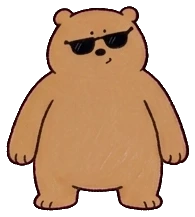
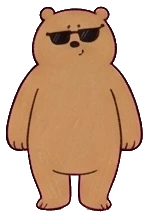
은신처 시안: 새 걷기 그림과 물건별 동작, 3주 작전 반영
옆걸음 네 장과 앞뒤 걷기, 물건마다 다른 동작(돋보기, 쌍안경, 도장, 헤드폰, 수화기, 돌 들기),
인사와 갸웃, 하품, 두리번거리기를 넣었다. 도장 3칸, 교환권은 도장 2개부터.
hideout 폴더만 바꿨고 학생 화면은 건드리지 않았다.

Changed region(s): [[0.0268, 0.0276, 0.9933, 0.9954]]

diff --git a/hideout/index.html b/hideout/index.html
@@ -275,7 +275,7 @@ button{-webkit-tap-highlight-color:transparent;cursor:pointer}
         <div class="bear idle" id="bear">
           <div class="scale" id="bearScale">
             <div class="ground" id="bearShadow"></div>
-            <div class="flip" id="bearFlip"><img id="bearImg" src="img/sit.webp" alt="" draggable="false"></div>
+            <div class="flip" id="bearFlip"><img id="bearImg" src="img/stand.webp" alt="" draggable="false"></div>
             <div class="bubble" id="bubble" role="status"></div>
           </div>
         </div>
@@ -321,7 +321,7 @@ button{-webkit-tap-highlight-color:transparent;cursor:pointer}
       <li>누를 수 있는 물건에는 흰 윤곽선이 둘러져 있고, 이름은 물건 옆에 손글씨로 적혀 있습니다. 누르면 그 물건만 살짝 커지고 밝아집니다.</li>
       <li>암호판은 지령, 창문은 마음 날씨, 책상은 도장 카드, 무전기 라디오는 추천곡, 돌 받침은 걱정돌, 빨간 전화는 도움 전화입니다.</li>
       <li>지도 게시판의 종이 세 장을 따로 누를 수 있습니다. 왼쪽 쪽지는 룰루랄라 포스터, 큰 지도는 인형 영상, 아래 사진은 색연필 영상입니다. 영상은 누를 때만 불러옵니다.</li>
-      <li>곰은 새로 받은 16자세와 걷는 그림을 씁니다.</li>
+      <li>곰은 새로 받은 그림을 씁니다. 옆으로 걷기 네 장, 앞으로·뒤로 걷기, 물건마다 다른 동작(쌍안경, 돋보기, 도장, 헤드폰, 수화기, 돌 들기), 인사·갸웃·하품·두리번거리기가 있습니다.</li>
     </ul>
     <h3>정해야 할 것</h3>
     <ul>
@@ -351,9 +351,10 @@ button{-webkit-tap-highlight-color:transparent;cursor:pointer}
   var PLAY='<svg viewBox="0 0 24 24" width="16" height="16" aria-hidden="true"><path d="M7 4.5v15l12-7.5z" fill="currentColor"/></svg>';
   var HEART='<svg viewBox="0 0 24 24" width="20" height="20" aria-hidden="true"><path d="M12 20.5s-7.5-4.6-7.5-10.2A4.3 4.3 0 0 1 12 7.6a4.3 4.3 0 0 1 7.5 2.7c0 5.6-7.5 10.2-7.5 10.2z" fill="none" stroke="currentColor" stroke-width="2" stroke-linejoin="round"/></svg>';
   /* 곰 그림: [가로, 세로] (그림 픽셀). 화면에는 K 배로 줄여 쓴다 */
-  var SPR={"stand":[195,217],"apple":[166,197],"back":[250,123],"belly":[238,115],"bird":[169,221],"front1":[183,225],"front2":[160,202],"honey":[172,193],"hooray":[196,214],"med":[163,197],"nap":[237,154],"read":[231,164],"sit":[184,204],"walk1":[158,230],"walk2":[180,199],"walk3":[160,197]};
-  var POSE_AT={board:'read',window:'stand',radio:'belly',desk:'apple',stones:'med',phone:'stand',poster:'stand',clip3d:'stand',clip2d:'stand'};
-  var REST=['apple','honey','belly','nap','back','med','bird'];
+  /* 곰 그림: [가로, 세로, 배율]. 새로 받은 그림은 기존 곰과 키가 같아지게 배율을 따로 둔다 */
+  var SPR={"apple":[166,197],"back":[250,123],"belly":[238,115],"bird":[169,221],"honey":[172,193],"med":[163,197],"nap":[237,154],"read":[231,164],"sit":[184,204],"b1":[146,205,1.05],"b2":[147,205,1.05],"backstand":[151,214,1.05],"binoc":[156,217,1.05],"crossed":[119,207,1.05],"f1":[126,205,1.05],"f2":[139,207,1.05],"headphone":[153,222,1.05],"hooray":[268,366,0.62],"lookl":[207,360,0.62],"lookr":[207,360,0.62],"mag":[165,217,1.05],"phone":[117,206,1.05],"stamp":[165,190,1.05],"stand":[149,218,1.05],"stone":[135,208,1.05],"tilt":[299,374,0.62],"w1":[151,217,1.05],"w2":[132,217,1.05],"w3":[136,216,1.05],"w4":[152,217,1.05],"wave":[289,366,0.62],"yawn":[233,368,0.62]};
+  var POSE_AT={board:'mag',window:'binoc',radio:'headphone',desk:'stamp',stones:'stone',phone:'phone',poster:'crossed',clip3d:'crossed',clip2d:'crossed'};
+  var REST=['apple','honey','belly','nap','back','med','bird','sit','read'];
   var WX={sun:'맑음',cloud:'구름',rain:'비',storm:'번개'};
   var reduce=window.matchMedia&&matchMedia('(prefers-reduced-motion: reduce)').matches;
   function replay(el,cls){el.classList.remove(cls);void el.offsetWidth;el.classList.add(cls)}
@@ -396,7 +397,7 @@ button{-webkit-tap-highlight-color:transparent;cursor:pointer}
     scale=ph/WH;
     P={minX:70,maxX:1450,minY:500,maxY:800,
       window:{x:330,y:752},desk:{x:410,y:765},board:{x:575,y:525},poster:{x:870,y:525},clip3d:{x:960,y:525},clip2d:{x:940,y:532},
-      radio:{x:1262,y:580},stones:{x:1262,y:612},phone:{x:1380,y:775},start:{x:550,y:612}};
+      radio:{x:1182,y:642},stones:{x:1278,y:652},phone:{x:1380,y:775},start:{x:550,y:612}};
     P.start.x=Math.min(550,346+(PW/2-16)/scale);      /* 처음에는 암호판과 그 글자가 다 보이는 자리 */
     if(!pos)pos={x:P.start.x,y:P.start.y};
     pos=fit(pos);cam=camFor();measureLabels();applyView();
@@ -427,11 +428,11 @@ button{-webkit-tap-highlight-color:transparent;cursor:pointer}
 
   /* ---------- 늘곰 ---------- */
   var bear=$('bear'), bearImg=$('bearImg'), flipEl=$('bearFlip'), shadow=$('bearShadow'), bubble=$('bubble');
-  var target=null, goal=null, dir=1, pose='sit', poseTimer=null, cur='', step=0, stepT=0, lastInput=0, resting=false, SPEED=330;
+  var target=null, goal=null, dir=1, pose='stand', poseTimer=null, cur='', step=0, stepT=0, lastInput=0, lastLook=0, resting=false, SPEED=330;
   Object.keys(SPR).forEach(function(n){var i=new Image();i.src='img/'+n+'.webp'});      /* 그림 미리 불러오기 */
   function show(name,flip){
     if(name!==cur){
-      cur=name;var w=SPR[name][0]*K, h=SPR[name][1]*K;
+      cur=name;var q=K*(SPR[name][2]||1), w=SPR[name][0]*q, h=SPR[name][1]*q;
       bearImg.setAttribute('src','img/'+name+'.webp');
       bearImg.style.width=w+'px';bearImg.style.height=h+'px';bearImg.style.left=(-w/2)+'px';bearImg.style.top=(4-h)+'px';
       shadow.style.width=(w*.8)+'px';shadow.style.left=(-w*.4)+'px';bubble.style.bottom=(h+16)+'px';
@@ -443,13 +444,13 @@ button{-webkit-tap-highlight-color:transparent;cursor:pointer}
     var s=0.8+0.36*((pos.y-P.minY)/Math.max(1,P.maxY-P.minY));
     $('bearScale').style.transform='scale('+s.toFixed(3)+')';
     if(!target)show(pose,1);
-    var cls='bear '+(target?'walk':(pose==='sit'||pose==='stand'?'idle':'act'));
+    var cls='bear '+(target?'walk':(pose==='stand'?'idle':'act'));
     if(bear.className!==cls)bear.className=cls;
     var vx=pos.x*scale-cam, shift=(clamp(vx,128,PW-128)-vx)/scale;bubble.style.marginLeft=(shift/s)+'px';
   }
   function setPose(name,ms,after){
     clearTimeout(poseTimer);pose=name;resting=false;
-    if(ms)poseTimer=setTimeout(function(){pose=after||'sit';drawBear()},ms);
+    if(ms)poseTimer=setTimeout(function(){pose=after||'stand';drawBear()},ms);
     if(pos)drawBear();
   }
   function walkTo(x,y,then,keepBubble){
@@ -461,7 +462,7 @@ button{-webkit-tap-highlight-color:transparent;cursor:pointer}
     if(reduce){pos={x:target.x,y:target.y};target=null;cam=camFor();applyView();arrive();return}
     drawBear();
   }
-  function arrive(){var g=goal;goal=null;if(g)g();else setPose('stand',1500,'sit');drawBear()}
+  function arrive(){var g=goal;goal=null;if(g)g();else setPose('stand');drawBear()}
   var last=0;
   function tick(t){
     var dt=Math.min(.05,(t-last)/1000);last=t;
@@ -471,13 +472,19 @@ button{-webkit-tap-highlight-color:transparent;cursor:pointer}
       else{
         pos.x+=dx/d*st;pos.y+=dy/d*st;stepT+=dt;if(stepT>.17){stepT=0;step=(step+1)%4}
         drawBear();
-        if(Math.abs(dx)>=Math.abs(dy)*.8)show(['walk1','walk2','walk3','walk2'][step],dir);          /* 옆으로 걷기 */
-        else show(step%2?'front1':'front2',step>1?-1:1);                            /* 앞뒤로 걷기 */
+        if(Math.abs(dx)>=Math.abs(dy)*.8)show(['w1','w2','w3','w4'][step],-dir);          /* 옆으로 걷기: 그림은 왼쪽을 보고 있어서 오른쪽으로 갈 때 뒤집는다 */
+        else show(dy<0?(step%2?'b1':'b2'):(step%2?'f1':'f2'),1);                    /* 방 안쪽으로 갈 때는 뒷모습, 앞으로 올 때는 앞모습 */
       }
-    }else if(!current&&!resting&&pose==='sit'&&t-lastInput>14000){
-      /* 한동안 가만히 두면 알아서 쉰다 */
-      resting=true;pose=REST[Math.floor(Math.random()*REST.length)];drawBear();
-      poseTimer=setTimeout(function(){if(resting){resting=false;pose='sit';lastInput=performance.now();drawBear()}},6500);
+    }else if(!current&&!resting&&pose==='stand'&&t-lastInput>14000){
+      /* 한동안 가만히 두면 하품을 하고 알아서 쉰다 */
+      resting=true;pose='yawn';drawBear();
+      poseTimer=setTimeout(function(){
+        if(!resting)return;pose=REST[Math.floor(Math.random()*REST.length)];drawBear();
+        poseTimer=setTimeout(function(){if(resting){resting=false;pose='stand';lastInput=performance.now();drawBear()}},6500);
+      },1500);
+    }else if(!current&&!resting&&pose==='stand'&&t-lastInput>2600&&t-lastLook>5200){
+      /* 가만히 서 있을 때는 가끔 두리번거린다 */
+      lastLook=t;if(!reduce)setPose(Math.random()<.5?'lookl':'lookr',900,'stand');
     }
     /* 방이 늘곰을 따라 옆으로 움직인다 */
     var want=camFor();if(Math.abs(want-cam)>.4){cam+=(want-cam)*Math.min(1,dt*7);applyView()}
@@ -506,7 +513,7 @@ button{-webkit-tap-highlight-color:transparent;cursor:pointer}
   Array.prototype.forEach.call(document.querySelectorAll('.obj'),function(o){
     o.addEventListener('click',function(){
       var k=o.dataset.k, p=P[k];ls.moved=true;save();
-      if(k==='stones'&&ls.week<4){walkTo(p.x,p.y,function(){setPose('sit');say('걱정돌은 작전이 끝나면 열려요.')});return}
+      if(k==='stones'&&ls.week<4){walkTo(p.x,p.y,function(){setPose('tilt',2200,'stand');say('걱정돌은 작전이 끝나면 열려요.')});return}
       walkTo(p.x,p.y,function(){setPose(POSE_AT[k]);openSheet(k,o)});
     });
   });
@@ -567,7 +574,7 @@ button{-webkit-tap-highlight-color:transparent;cursor:pointer}
     current=null;clearInterval(clockTimer);sheet.classList.remove('on');scrim.classList.remove('on');behind(false);panFor(0);
     if(opener){try{opener.focus({preventScroll:true})}catch(e){}}
     renderRoom();
-    if(!quiet)setPose('stand',1200,'sit');
+    if(!quiet)setPose('stand');
   }
   function behind(on){[world,document.querySelector('.hud'),document.querySelector('.acts')].forEach(function(el){if(on)el.setAttribute('inert','');else el.removeAttribute('inert')})}
   $('sheetClose').addEventListener('click',function(){closeSheet()});
@@ -602,7 +609,7 @@ button{-webkit-tap-highlight-color:transparent;cursor:pointer}
       h+='</div>';
       return {title:title,tone:'board',html:h,bind:function(){
         var f=$('codeForm');if(!f)return;var input=$('code'), msg=$('codeMsg');
-        function wrong(text){msg.textContent=text;input.classList.add('bad');replay(input,'shake');input.focus()}
+        function wrong(text){msg.textContent=text;input.classList.add('bad');replay(input,'shake');input.focus();setPose('tilt',1600,POSE_AT.board)}
         f.addEventListener('submit',function(e){
           e.preventDefault();var v=input.value.trim();
           if(!v){wrong('암호를 먼저 적어 주세요.');return}
@@ -683,7 +690,7 @@ button{-webkit-tap-highlight-color:transparent;cursor:pointer}
       return {title:'우리 걱정돌 탑',html:h,bind:function(){
         $('stoneBtn').addEventListener('click',function(){
           ls.stone=TODAY;save();S.stonesToday++;S.stonesTotal++;closeSheet(true);replay($('oStones'),'hop');
-          setPose('hooray',1400,'sit');say('돌 하나 올렸어요.',2400);
+          setPose('hooray',1400,'stand');say('돌 하나 올렸어요.',2400);
         });
       }};
     },
@@ -711,7 +718,7 @@ button{-webkit-tap-highlight-color:transparent;cursor:pointer}
         $('seg').addEventListener('click',function(e){var b=e.target.closest('button');if(!b)return;ls.week=+b.dataset.w;save();refresh();renderRoom()});
         $('resetBtn').addEventListener('click',function(){
           try{localStorage.removeItem(KEY)}catch(e){}
-          ls={};defaults();seed();closeSheet(true);pos={x:P.start.x,y:P.start.y};target=null;cam=camFor();applyView();setPose('sit');renderRoom();drawPaws();say('처음으로 돌아왔어요.',2200);
+          ls={};defaults();seed();closeSheet(true);pos={x:P.start.x,y:P.start.y};target=null;cam=camFor();applyView();setPose('stand');renderRoom();drawPaws();say('처음으로 돌아왔어요.',2200);
         });
       }};
     }
@@ -727,7 +734,7 @@ button{-webkit-tap-highlight-color:transparent;cursor:pointer}
   setTimeout(function(){world.classList.add('live')},400);
   requestAnimationFrame(function(t){last=t;lastInput=t;tick(t)});
   setTimeout(function(){
-    say('어서 와요. 오늘 '+S.today+'번째 요원이에요.',3200);
+    setPose('wave',2800,'stand');say('어서 와요. 오늘 '+S.today+'번째 요원이에요.',3200);
     if(!ls.moved)setTimeout(function(){if(!target&&!current)say('바닥이나 물건을 눌러 보세요. 방이 옆으로 길어요.',4600)},3600);
   },500);
 })();
